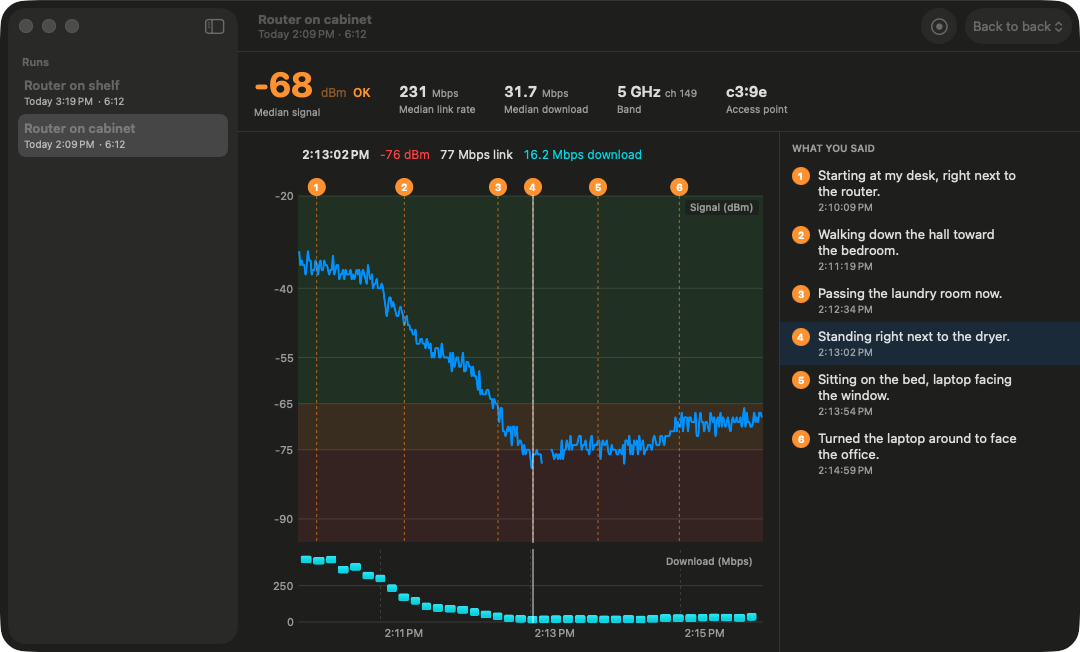
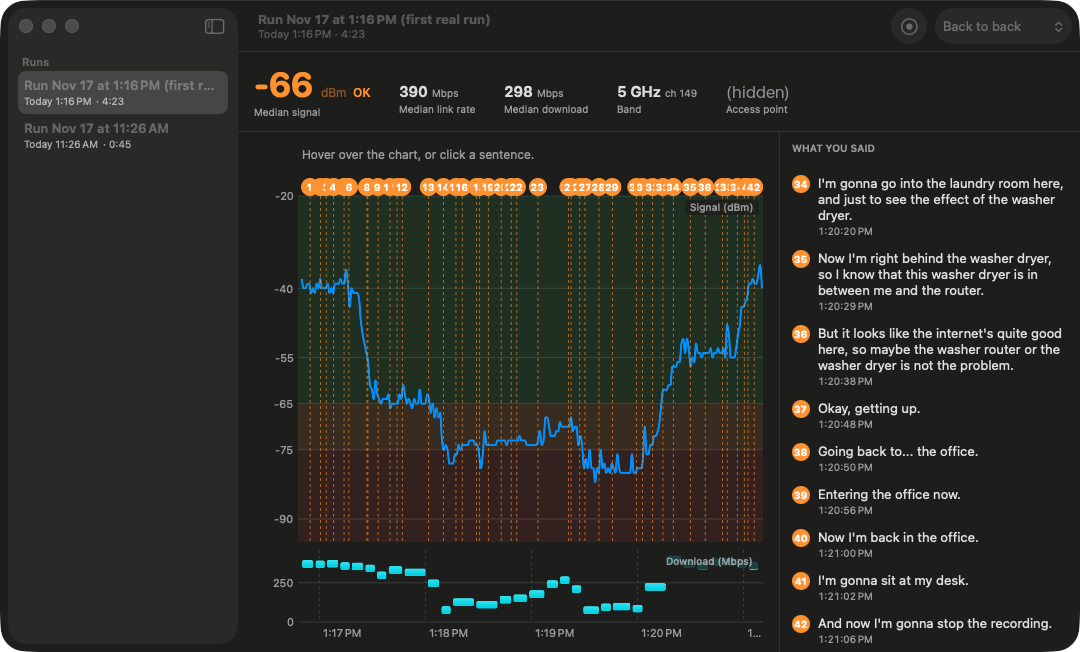
README: show a real walk, with the access point's ID hidden
The sample screenshot showed part of a real access point's BSSID, and so did
the example in shortBSSID's comment. The README now shows a real walk with
the ID painted over, and the comment uses a made-up one.

diff --git a/WhyFi/Views/Style.swift b/WhyFi/Views/Style.swift
@@ -57,7 +57,7 @@ enum Format {
         value >= 100 ? String(format: "%.0f", value) : String(format: "%.1f", value)
     }
 
-    /// The last two octets of a BSSID, enough to tell access points apart: "c3:9e".
+    /// The last two octets of a BSSID, enough to tell access points apart: "4f:2a".
     static func shortBSSID(_ bssid: String) -> String {
         bssid.split(separator: ":").suffix(2).joined(separator: ":")
     }

diff --git a/README.md b/README.md
@@ -4,9 +4,9 @@
 
 <p align="center">Find out why your Wi-Fi drops. Carry your Mac around, say where you are and what you're doing, and WhyFi lines up what you said with the Wi-Fi signal and download speed at that moment.</p>
 
-![WhyFi showing a walk through a house: the signal falls as the narration reaches "Standing right next to the dryer."](docs/screenshot.png)
+![WhyFi showing a walk through a house: the signal falls from about -40 dBm at the desk to the mid -70s in the bedroom, then climbs back up on the way back.](docs/screenshot.png)
 
-*The screenshot shows a sample walk.*
+*A real walk, with the access point's ID hidden.*
 
 ## Why
 
